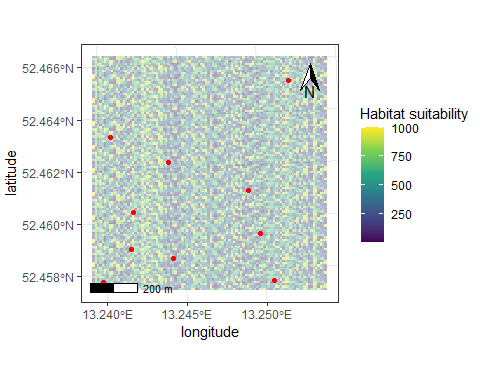
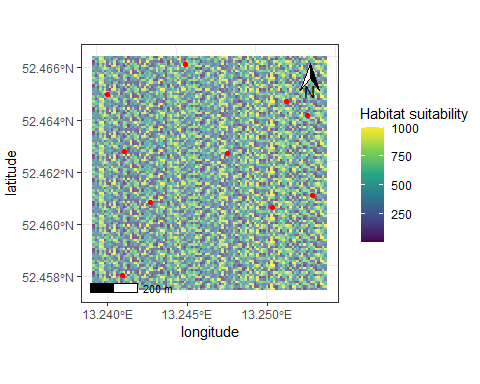
upfsyr

Changed region(s): [[0.1875, 0.125, 0.6875, 0.7812]]

diff --git a/_posts/2023-10-15-netlogoturtlespatialprojection.md b/_posts/2023-10-15-netlogoturtlespatialprojection.md
@@ -5,7 +5,7 @@ tags:
   - spatial 
   - tutorial
   - Rcode 
-#date: 2023-06-15 / 2023-10-15
+#date: 2023-06-15
 output:
   md_document:
     variant: markdown_github
@@ -44,6 +44,9 @@ library(dplyr)
 library(sf)
 library(ggplot2)
 library(ggspatial)
+
+## for reproducibility
+set.seed(469)
 ```
 
 ## 1. Create data
@@ -80,12 +83,12 @@ head(turtle_variables)
 ```
 
     ##   who xcoord ycoord
-    ## 1   1     16     17
-    ## 2   2     32     54
-    ## 3   3     17     33
-    ## 4   4     34     13
-    ## 5   5     66     42
-    ## 6   6      7     65
+    ## 1   1     57     58
+    ## 2   2     13     59
+    ## 3   3     82     80
+    ## 4   4      6     83
+    ## 5   5     24     37
+    ## 6   6     93     40
 
 Now that we have our data, let’s extract the map coordinates as
 reference and transform the turtle ones. This process will work with any
@@ -124,12 +127,43 @@ turtle_sf <- st_as_sf(turtle_spatial,
 
 ## 4. Plot with ggplot2
 
-    ##         x       y  hs
-    ## 1 4541105 3266795 231
-    ## 2 4541115 3266795 344
-    ## 3 4541125 3266795 614
-    ## 4 4541135 3266795 980
-    ## 5 4541145 3266795 100
-    ## 6 4541155 3266795 586
+``` r
+## make myraster a dataframe
+map_df <- as.data.frame(myraster, xy = TRUE)
+names(map_df) <- c("x","y","hs")
+head(map_df)
+```
 
-<img src="/assets/images_tutorials/plot turtle ggplot-1.png" style="padding:2px; display: block; margin: auto;" />
+    ##         x       y  hs
+    ## 1 4541105 3266795 475
+    ## 2 4541115 3266795 689
+    ## 3 4541125 3266795 602
+    ## 4 4541135 3266795 881
+    ## 5 4541145 3266795 793
+    ## 6 4541155 3266795 247
+
+``` r
+## plot map with turtles on top
+plot_mymap <- ggplot() +
+  geom_tile(data = map_df, aes(x = x, y = y, fill = hs), alpha = 0.7) +
+  scale_fill_viridis_c(na.value = "transparent",
+                       name = "Habitat suitability") +
+  geom_sf(data = turtle_sf, col = "red") +
+  annotation_scale() +
+  annotation_north_arrow(location = "tr", 
+    pad_x = unit(0.2, "in"), pad_y = unit(0.2, "in"),
+    height = unit(0.8, "cm"),
+    width = unit(0.5, "cm")) +
+  ylab("latitude") +
+  xlab("longitude") +
+  theme_bw() +
+  theme(
+    plot.background = element_blank(),
+    plot.margin = unit(c(0.1, 0.1, 0.1, 0.1), "cm"),
+    
+  )
+
+plot_mymap
+```
+
+<img src="/assets/images_tutorials/plot turtle ggplot-1.png" style="padding: 1px; display: block; margin: auto;" />
